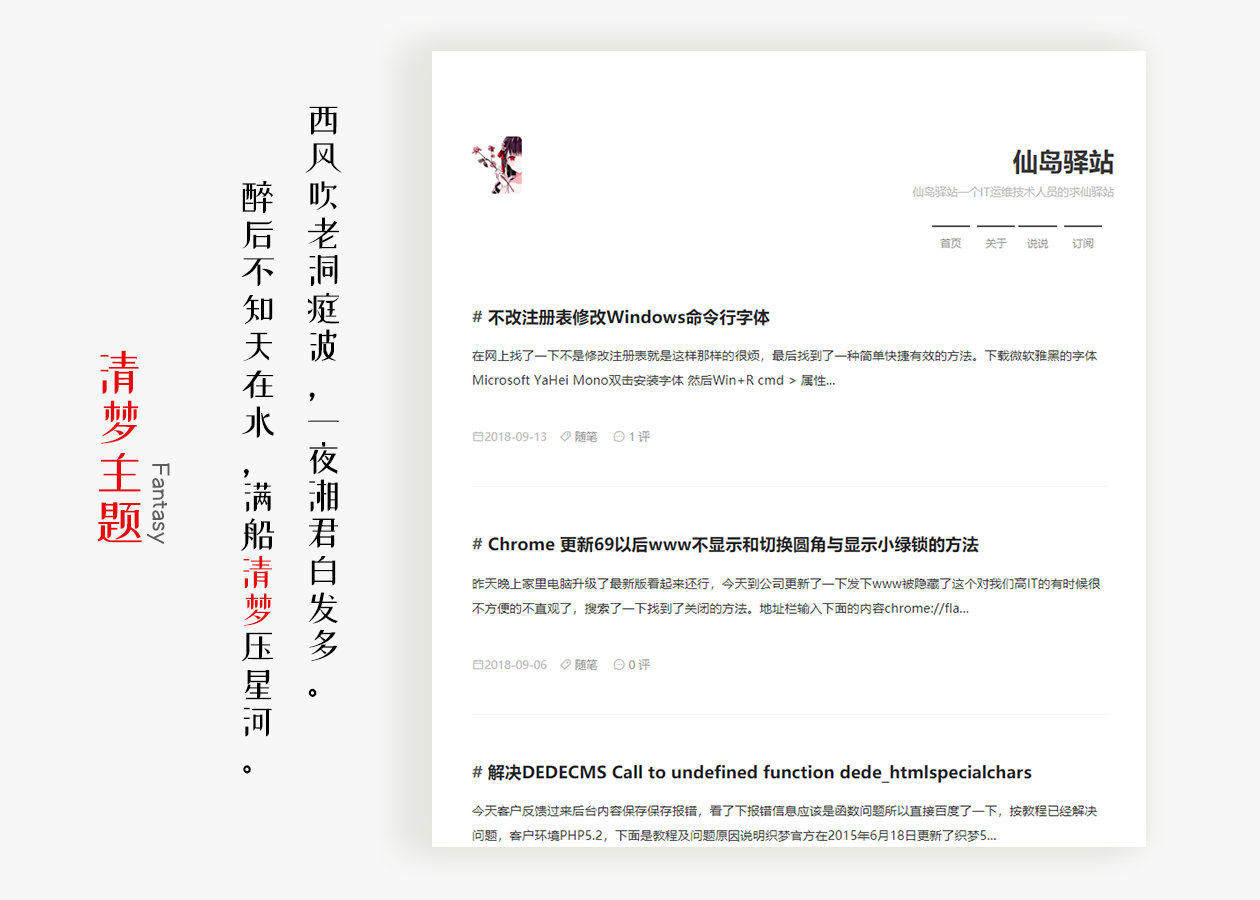
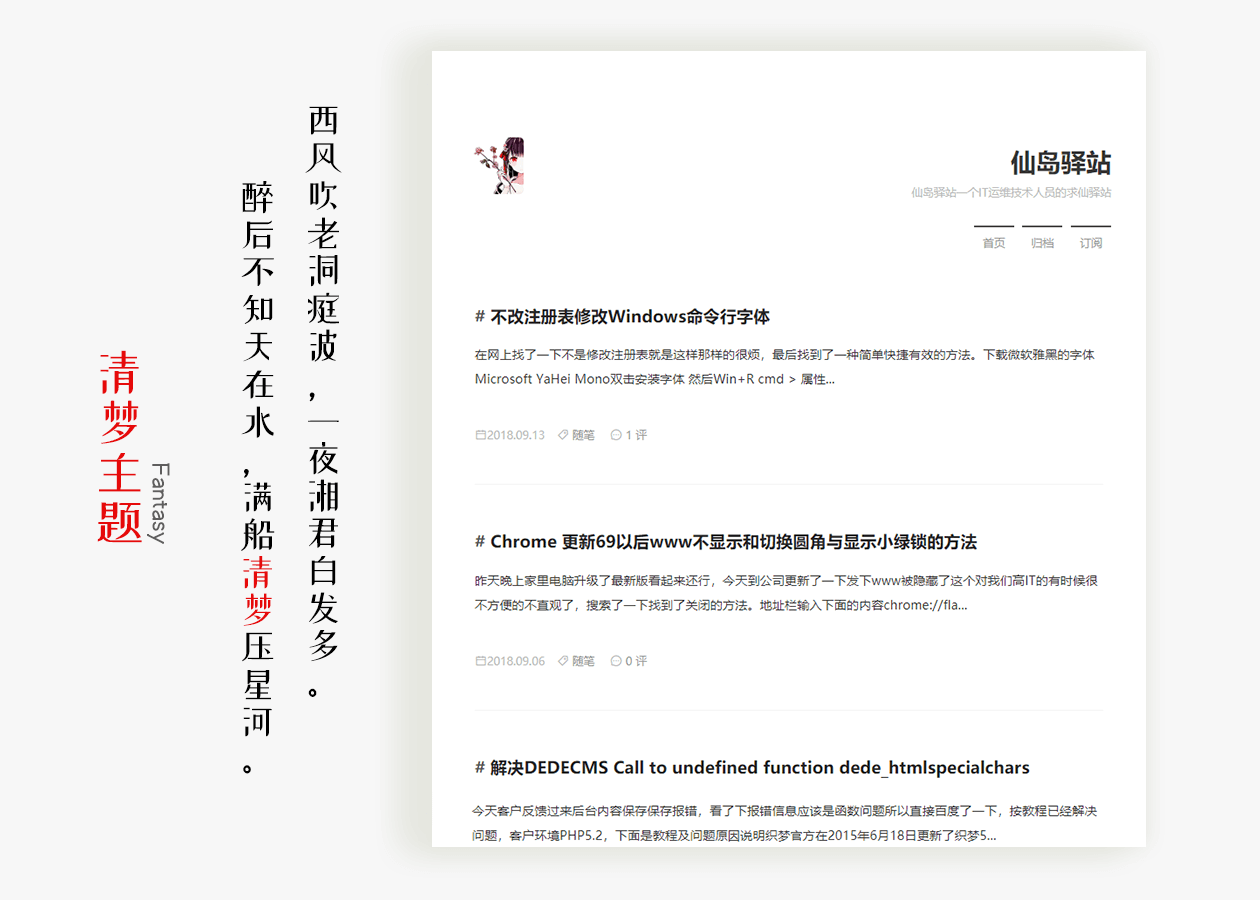
修改错别字和压缩主题预览图

diff --git a/index.php b/index.php
@@ -2,7 +2,7 @@
 /**
  * Fantasy 是一个极简自适应博客主题
  * 经作者同意由BITCRON博客Aragaki主题移植而来。
- * 又改名为Fantasy取意“清梦”源自“ 醉后不知天在水，满船清梦压星河。” 意图用来描绘现状。
+ * 又改名为Fantasy取义“清梦”源自“ 醉后不知天在水，满船清梦压星河。” 意图用来描绘现状。
  * @package Fantasy Theme
  * @author Intern
  * @version 1.0.0
